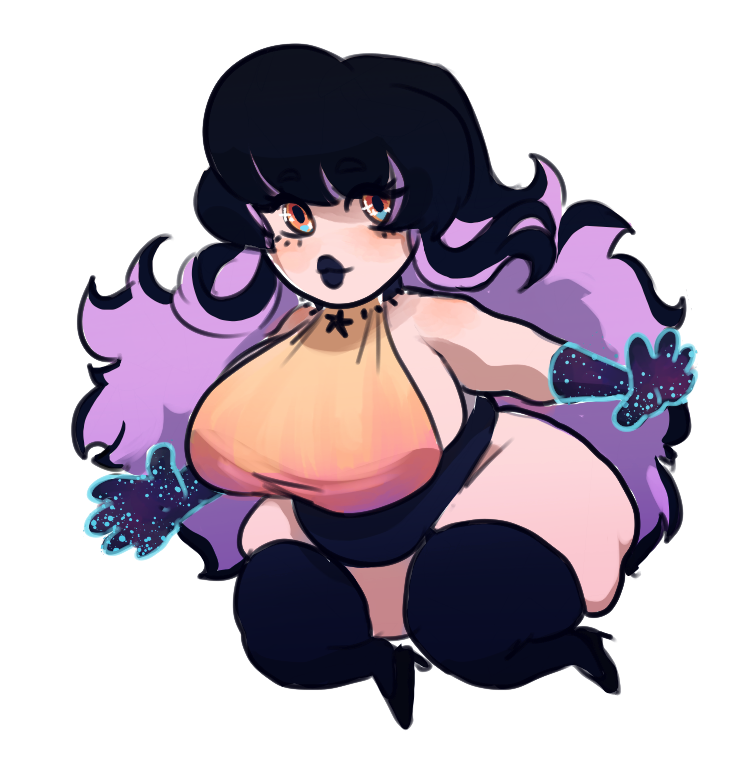
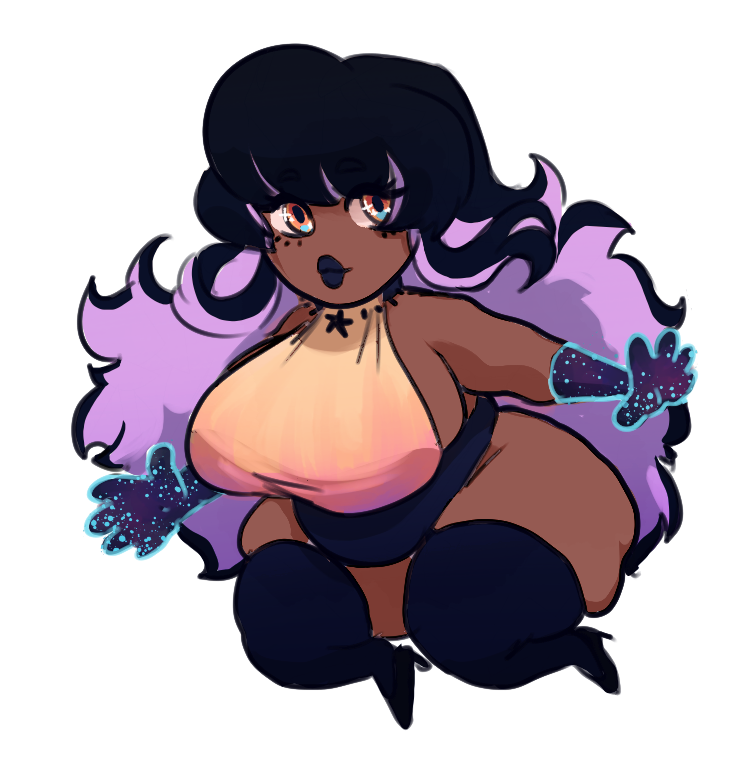
all time high
cassie's skin color changed....

Changed region(s): [[0.3046, 0.2402, 0.853, 0.8107], [0.457, 0.7206, 0.5483, 0.8407], [0.3046, 0.6305, 0.4265, 0.7206]]

diff --git a/content/world/cassie.html b/content/world/cassie.html
@@ -102,7 +102,8 @@ nesting: "../"
             She takes on the adventurer's pursuit in the name of curiosity, of wonder, and love. For what could life be
             but a wonderful dream.
         </p>
-
+<p style="text-align:center"><a href="assets/cassie_ref2026.png"><img src="assets/cassie_ref2026.png"
+                    width="400px"></a></p>
         <p style="text-align:center"><img src="assets/cass_gif5.gif" width="100px"> <img src="assets/cass_gif6.gif"
                 width="100px"></p>
     </div>

diff --git a/public/world/cassie.html b/public/world/cassie.html
@@ -114,7 +114,8 @@
             She takes on the adventurer's pursuit in the name of curiosity, of wonder, and love. For what could life be
             but a wonderful dream.
         </p>
-
+<p style="text-align:center"><a href="assets/cassie_ref2026.png"><img src="assets/cassie_ref2026.png"
+                    width="400px"></a></p>
         <p style="text-align:center"><img src="assets/cass_gif5.gif" width="100px"> <img src="assets/cass_gif6.gif"
                 width="100px"></p>
     </div>

diff --git a/content/world/lalowe.html b/content/world/lalowe.html
@@ -111,6 +111,8 @@ nesting: "../"
             with everyone all the time, but given the patience, she's a delightful little creature that hoards books and
             gifts from her (quite large) found family.
         </p>
+         <p style="text-align:center"><a href="assets/lalowe_ref2026.png"><img src="assets/lalowe_ref2026.png"
+                    width="400px"></a></p>
     </div>
     <div class="box">
         <h2>Personality</h2>

diff --git a/public/world/lalowe.html b/public/world/lalowe.html
@@ -123,6 +123,8 @@
             with everyone all the time, but given the patience, she's a delightful little creature that hoards books and
             gifts from her (quite large) found family.
         </p>
+         <p style="text-align:center"><a href="assets/lalowe_ref2026.png"><img src="assets/lalowe_ref2026.png"
+                    width="400px"></a></p>
     </div>
     <div class="box">
         <h2>Personality</h2>
